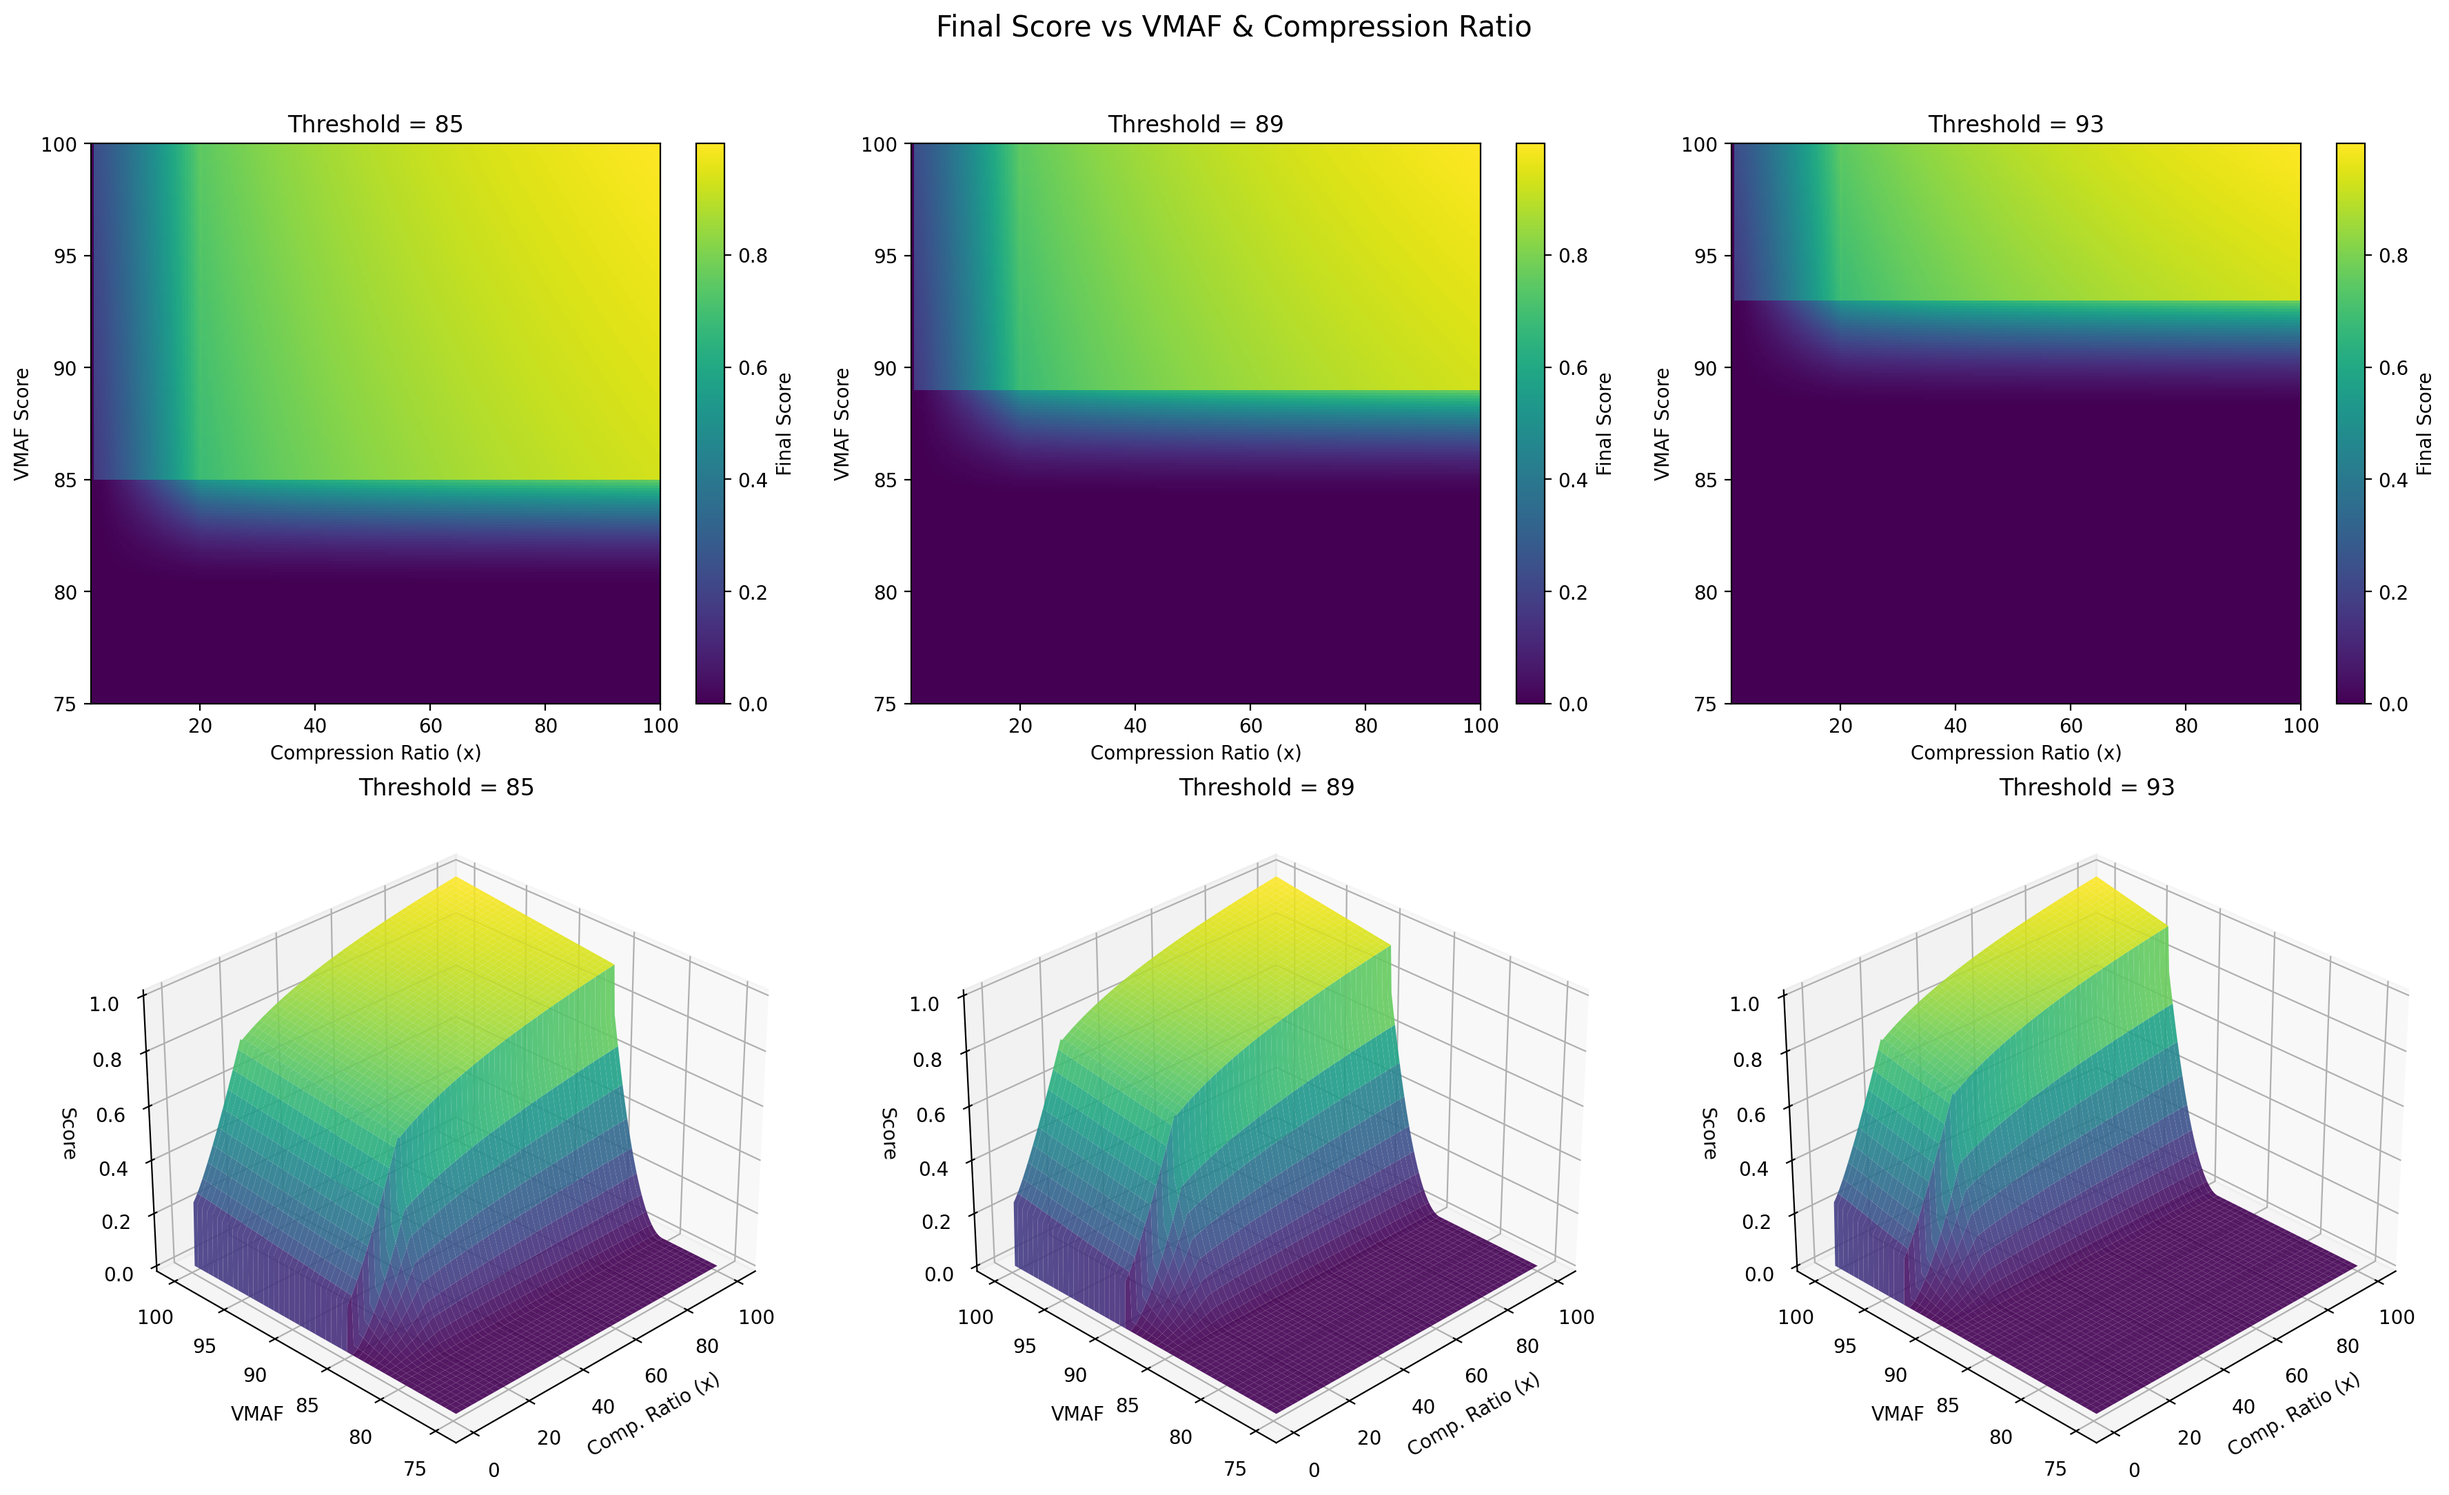
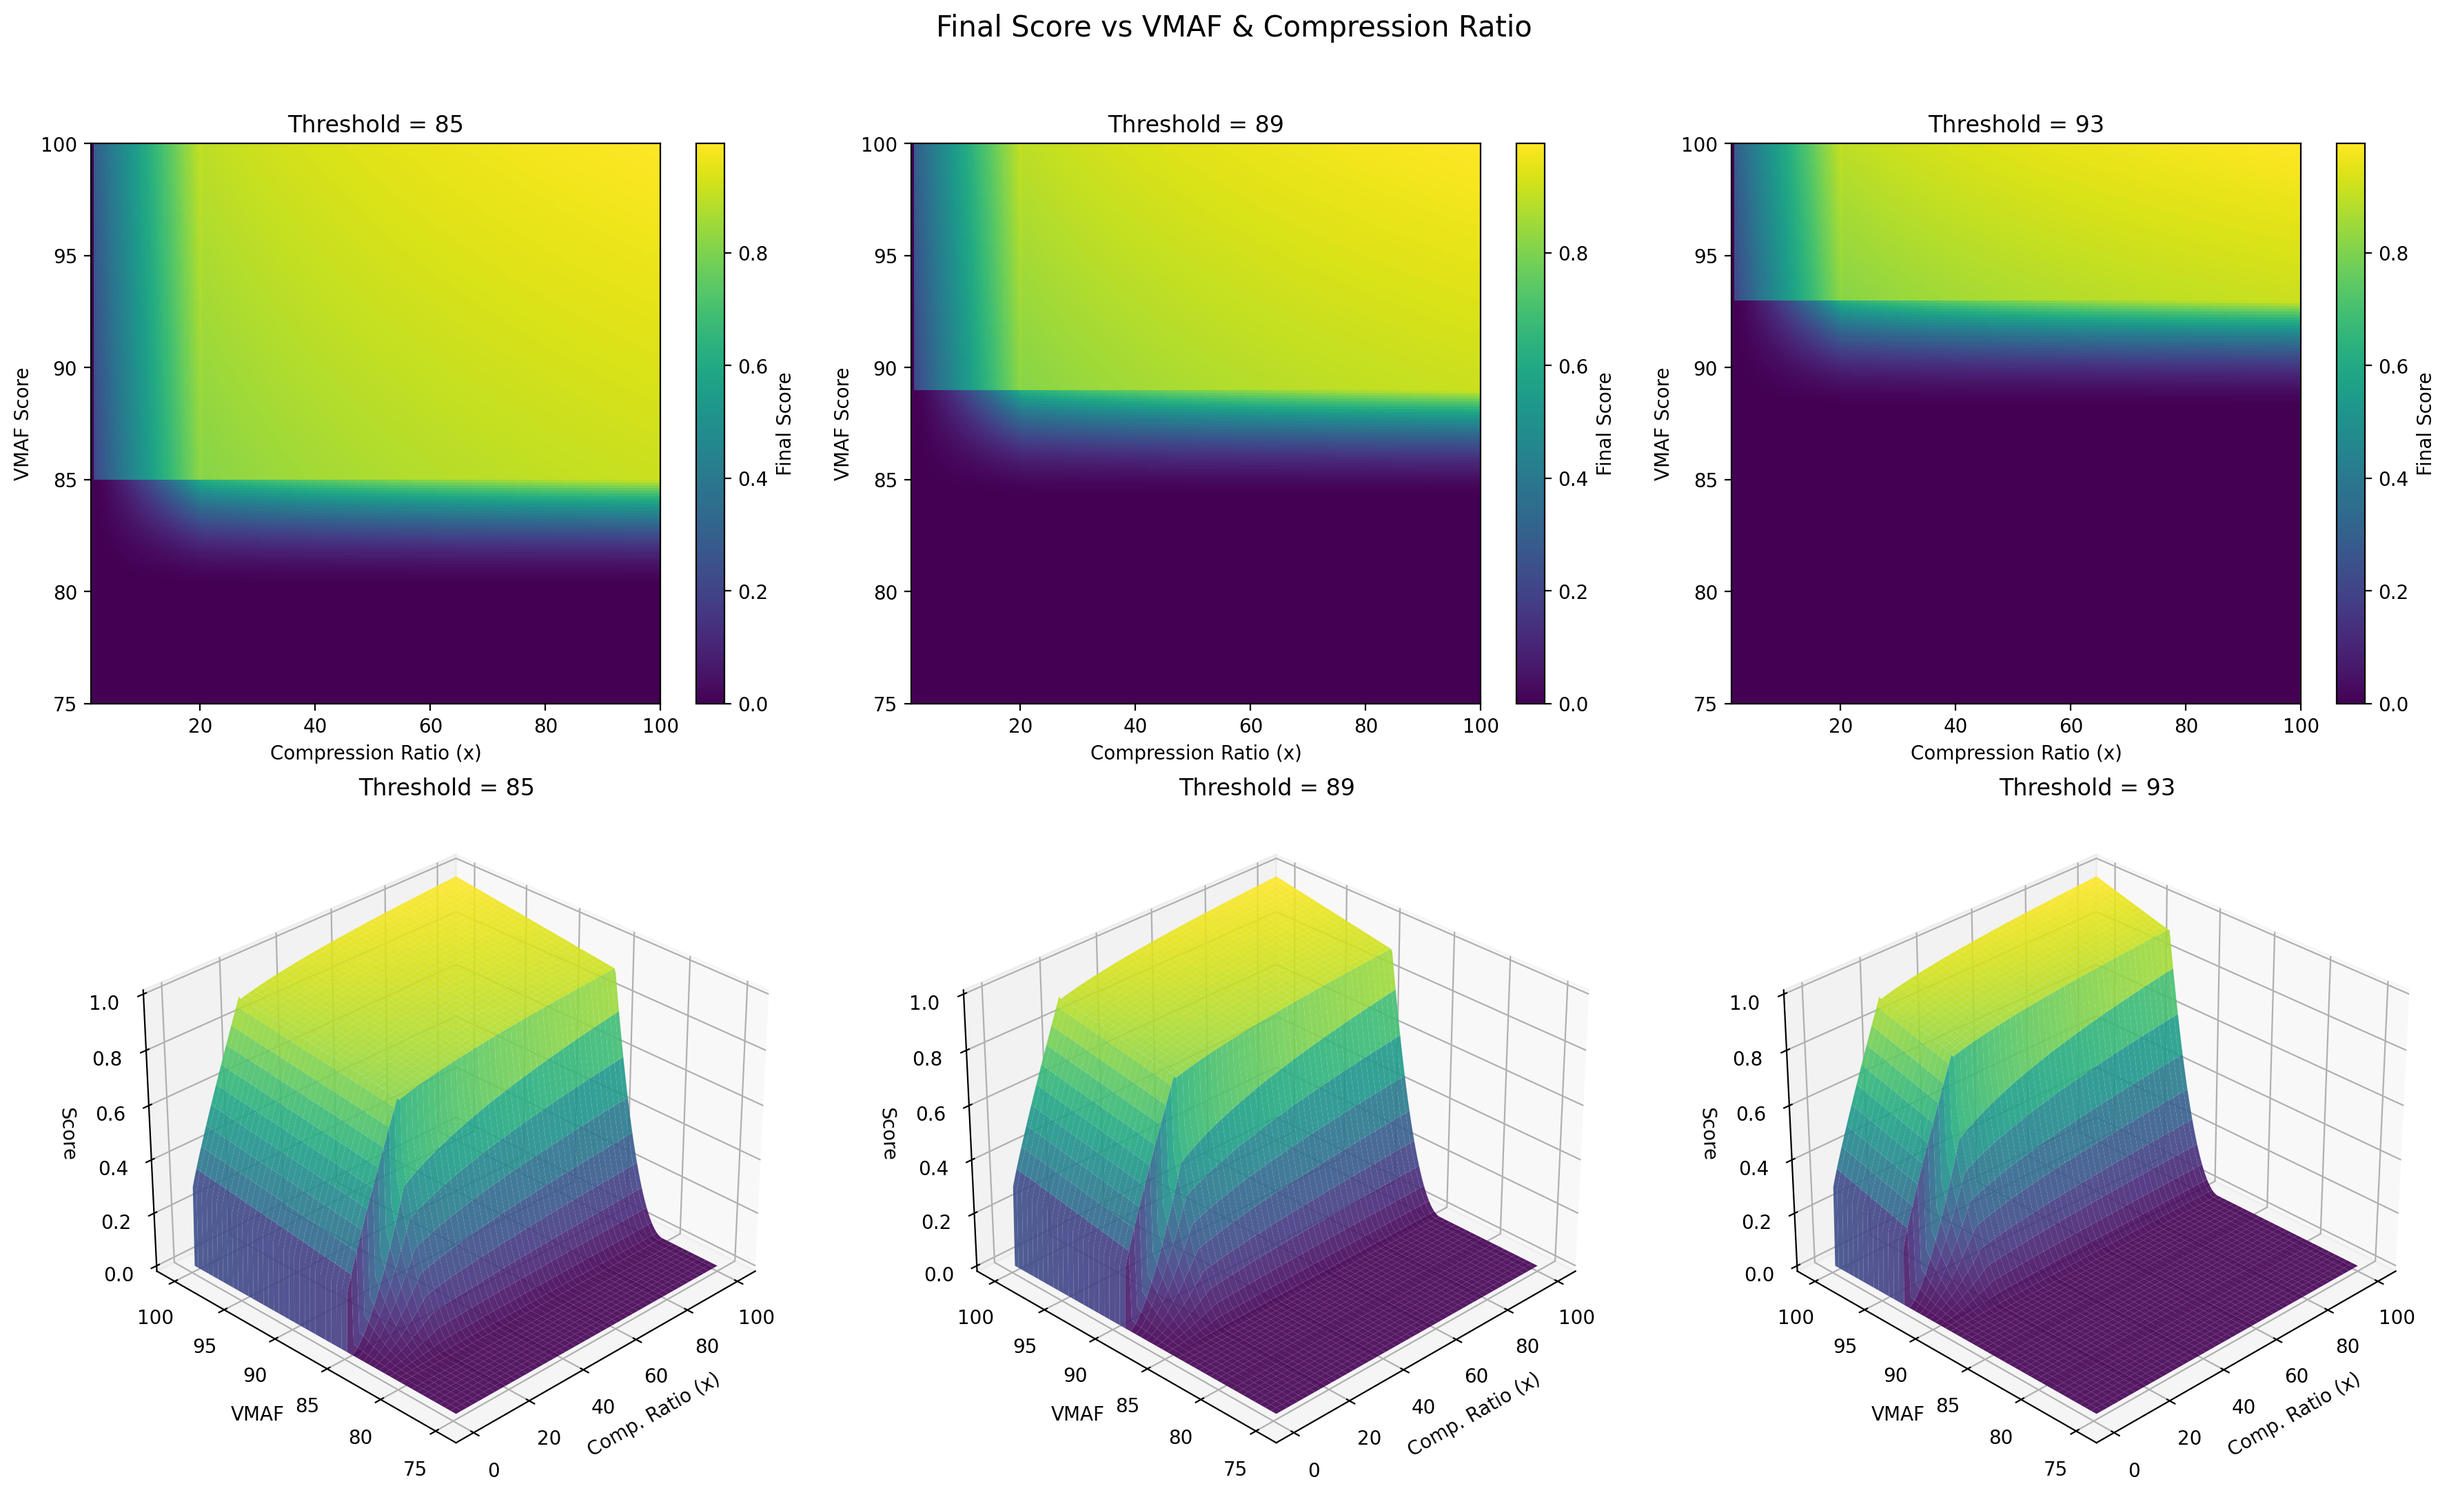
more lenient scoring between 10x-20x compression

diff --git a/services/scoring/scoring_function.py b/services/scoring/scoring_function.py
@@ -124,7 +124,7 @@ def calculate_compression_score(
         # In soft zone, both compression AND quality factor matter
         # If you're below threshold, you need good compression to recover
         # Normalization factor based on max theoretical score at 100x compression
-        normalization_factor = 1.34
+        normalization_factor = 1.12
         final_score = (compression_component * quality_factor) / normalization_factor
         
         return min(1.0, final_score), compression_component, quality_factor, f"VMAF {vmaf_score:.2f} in soft zone (quality factor: {quality_factor:.2f})"
@@ -164,33 +164,27 @@ def calculate_compression_score(
         if compression_ratio <= 20:
             """
             Good compression scoring (1.25x to 20x):
-            f(r) = ((r - 1.25) / 18.75) ^ 1.2
+            f(r) = ((r - 1.25) / 18.75) ^ 0.9
             
             Starting from 1.25x to give smooth transition from poor zone:
             - At 1.25x: component = 0.025
-            - At 2x: component ≈ 0.24
-            - At 5x: component ≈ 0.64
-            - At 10x: component ≈ 0.88
-            - At 15x: component ≈ 0.96
-            - At 20x: component = 1.0
-            
-            The exponent 1.2 provides balanced reward curve.
+            - At 2x: component ≈ 0.22
+            - At 5x: component ≈ 0.47
             """
-            compression_component = ((compression_ratio - 1.25) / 18.75) ** 1.2 + 0.025
+            compression_component = ((compression_ratio - 1.25) / 18.75) ** 0.9 + 0.025
         else:
             """
             Exceptional compression bonus (>20x):
-            f(r) = 1.0 + 0.3 * ln(r / 20)
+            f(r) = 1.0 + 0.1 * ln(r / 20)
             
-            Logarithmic bonus up to 1.3 cap:
-            - At 20x: component = 1.0 (continuous at boundary)
-            - At 30x: component ≈ 1.12
-            - At 40x: component ≈ 1.21
-            - At 60x: component ≈ 1.30 (capped)
+            Logarithmic bonus:
+            - At 20x: component = 1.0
+            - At 50x: component ≈ 1.09
+            - At 100x: component ≈ 1.16
             
-            Natural log ensures smooth transition from power region.
+            Reduced multiplier compresses the dynamic range.
             """
-            compression_component = 1.0 + 0.3 * math.log(compression_ratio / 20)
+            compression_component = 1.0 + 0.1 * math.log(compression_ratio / 20)
         
         # compression_component = min(1.3, compression_component)
         reason_suffix = "" if compression_ratio < 10 else " (excellent compression)"
@@ -203,7 +197,7 @@ def calculate_compression_score(
         Capped at 1.0 to maintain normalized scoring
         """
         # Normalization factor based on max theoretical score at 100x compression
-        normalization_factor = 1.34
+        normalization_factor = 1.12
         final_score = (compression_weight * compression_component + 
                       quality_weight * quality_component) / normalization_factor
         
